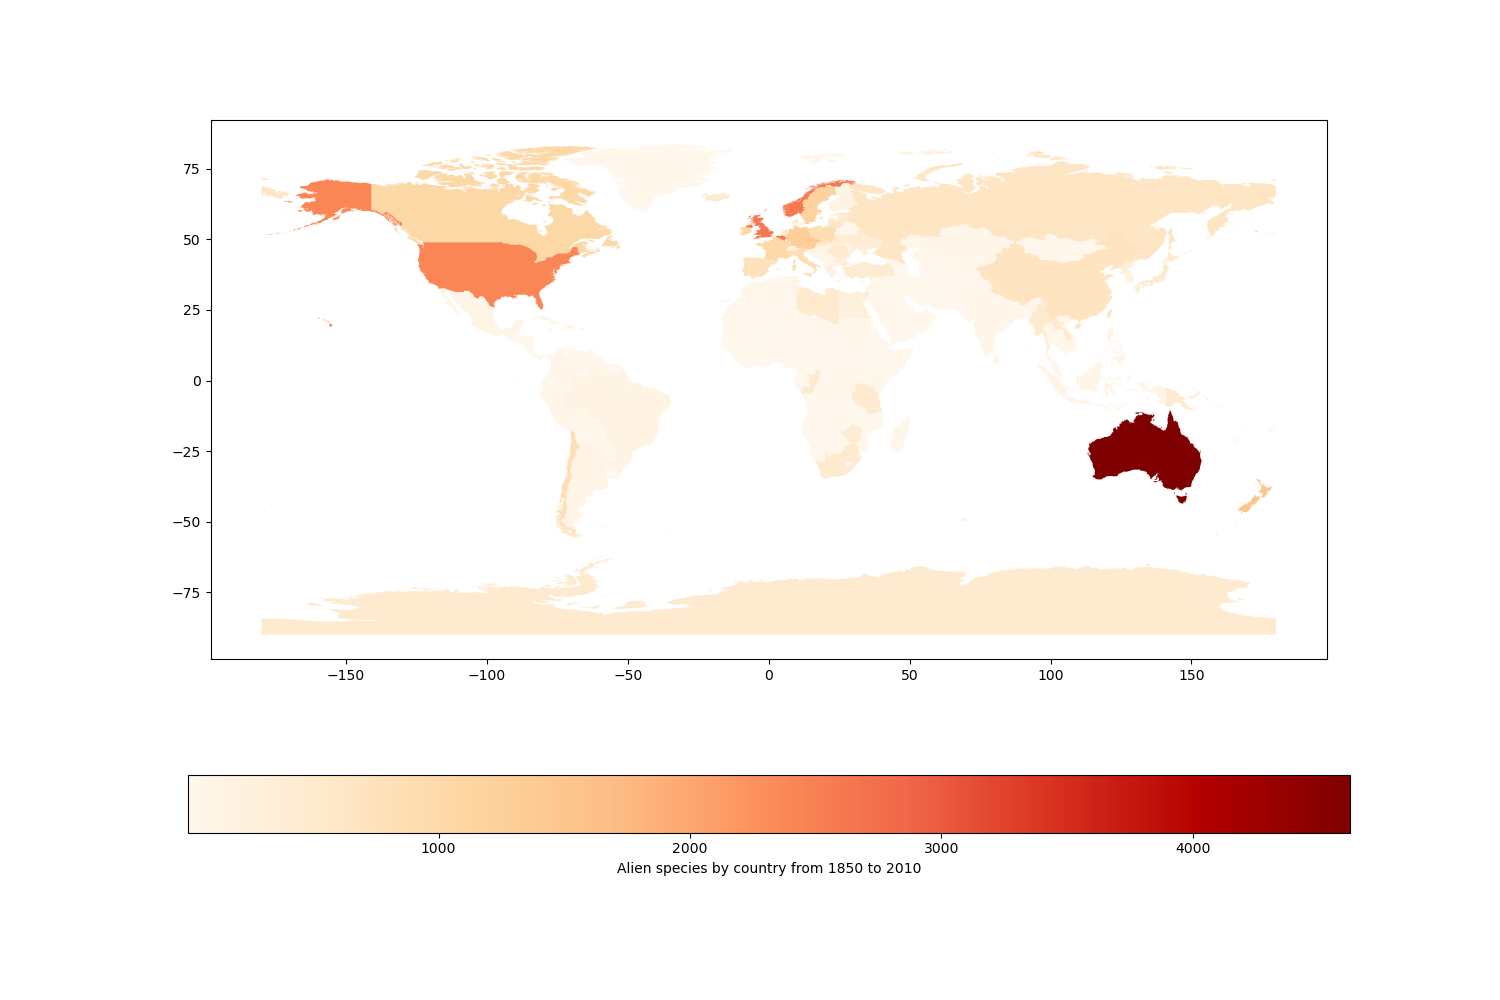
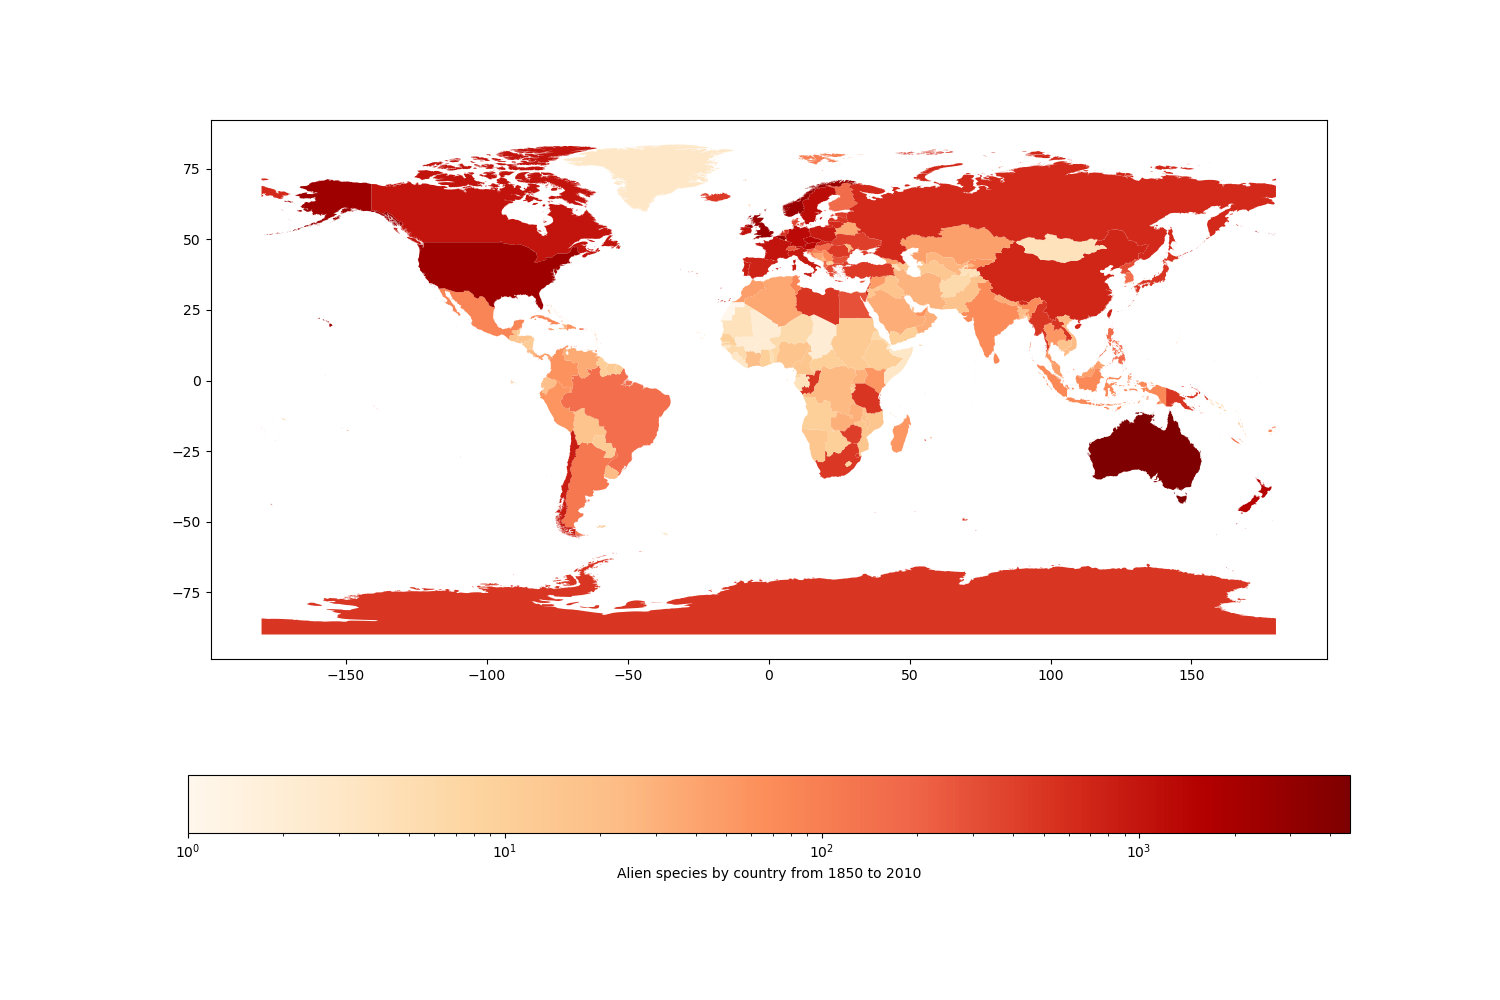
Chapter 4

diff --git a/latex/thesis.tex b/latex/thesis.tex
@@ -211,7 +211,6 @@ Intuitively, the amount of invasion per year increases over time mainly due to f
 %%\end{table}
 % -----------------------------------------
 
-%TODO use log of colors
 \begin{figure}[H]
     \centering
     \includegraphics[width=0.85\textwidth]{region_invasion.png}
@@ -564,17 +563,17 @@ The hazard function can be interpreted as the expected number of relational even
 %%Theta is what thet called beta in Igor's paper (change it?)
 
 \[
-\lambda(s, r, t) = \lambda_0(t) \cdot exp({X_{sr}^{(t)} \theta} )
+\lambda(s, r, t) = \lambda_0(t) \cdot exp({X_{sr}^{(t)} \beta} )
 \]
 
-In this equation, $\lambda_0$ represents a baseline hazard for all dyads in the risk set $\mathcal{R}$. Instead, the variable $X_{sr}^{(t)}$ is some dyadic covariate at time $t$. To estimate the parameters $\theta$ we maximize the partial likelihood of the Cox proportional hazard model 
+In this equation, $\lambda_0$ represents a baseline hazard for all dyads in the risk set $\mathcal{R}$. Instead, the variable $X_{sr}^{(t)}$ is some dyadic covariate at time $t$. To estimate the parameters $\beta$ we maximize the partial likelihood of the Cox proportional hazard model 
 
 
 \[
-L(\beta) =  \prod_{i=1}^n \frac{exp (X_{s_i r_i}^{(t_i)} \theta) }{ \sum_{(s,r) \in \mathcal{R}_{t_i}} exp({X_{sr}^{(t_i)} \theta} )}
+L(\beta) =  \prod_{i=1}^n \frac{exp (X_{s_i r_i}^{(t_i)} \beta) }{ \sum_{(s,r) \in \mathcal{R}_{t_i}} exp({X_{sr}^{(t_i)} \beta} )}
 \]
 
-Typically the research interest is to estimate the factors that increase, or decrease, the likelihood $L$, more specifically, the parameter $\theta$.
+Typically the research interest is to estimate the factors that increase, or decrease, the likelihood $L$, more specifically, the parameter $\beta$.
 
 
 
@@ -654,13 +653,21 @@ We chose the distance in the vector space $X$ to be the dot product. Empirically
 % Introduce EM for the problem
 To infer on the structure of the latent space $X$, and the parameters $\theta$  and $\Sigma$ we use the Expectation Maximization (EM) algorithm (\ref{sec:em}). Since the latent state $X$ is not observed, a direct optimization of the maximum likelihood is not possible. We aim to maximise the $\int_x L(\theta, \Sigma ; y, x) dx$. As explained in the background section \ref{sec:em}, the EM instead of directly maximise this integral, it iteratively computes and maximises an estimate $Q$ of the parameters $\theta, \Sigma$ conditionated on the previous estimate. 
 
-\[
-Q(\theta^{n}, \Sigma^{n}) = E_{x|y} \left( log(p(x, y | \theta^{n-1}, \Sigma^{n-1}) \right)
-\]
+%TODO a little unclear
+\begin{eqfloat}
+\begin{equation}
+Q(\beta^{n}, \Sigma^{n}) = E_{x|y} \left( log(p(x, y | \theta^{n-1}, \Sigma^{n-1}) \right)
+\end{equation}
+\caption{Expectation Maximization.}
+\label{eq:expectation_maximization}
+\end{eqfloat}
+
 
 With $\theta(x_k) = -dist(x_s, x_r))$
 
 % E-step hard to solve -> Kalman filter
+
+\subsection{Extended Kalman Filter}
 
 In section \ref{sec:kalman} we showed how to apply a Kalman filter to solve the E-step of an Expectaction Maximizaton problem of a Linear Gaussian model, but our process $y$ is not linear. We can rewrite the latent space formulation in Eq. \ref{eq:latentspace} slightly differently
 
@@ -725,31 +732,29 @@ We forecast an update of the estimation of $\hat{x} \approx x$
 \begin{eqfloat}[H]
 \begin{equation}
 \begin{array}{l}
-\hat{x}_t^- = f(\hat{x}_{t-1}) \\
-\hat{V}_t^- = J(x^f_{t-1}) V_{t-1} J(x^f_{t-1})^T + W_{t-1} Q_{t-1} W_{t-1}^T
+\hat{x}_k^- = \hat{x}_{k-1} \\
+\hat{V}_k^- =  V_{k-1} + \Sigma
 \end{array}
 \end{equation}
 \caption{Prediction step}
 \label{eq:ext_kalmann_prediction}
 \end{eqfloat}
 
-%TODO check Q
-Where $J(x)$ is the Jacobian of $f(x)$ and $Q_{t-1}$ the process noise covariance matrix.
-
+We know updated the a-priori estimates of the mean and variance in Eq. \ref{eq:ext_kalmann_prediction} with the observation of state $y$
 
 \begin{eqfloat}[H]
 \begin{equation}
 \begin{array}{l}
-K_t = V_t^- H^T_t (H_t V_t^- H^T_t + R_t)^{-1} \\
-\hat{x}_t = x_t^- + K (z_t - h(\hat{x}_t^-)) \\
-V_t = (I-K_t H_t)V_t^-
+K_k = V_k^- H^T_k (H_k V_t^- H^T_k + R_k)^{-1} \\
+\hat{x}_k = x_k^- + K_k (y_k - h(\hat{x}_k^-)) \\
+V_k = (I-K_k H_k)V_k^-
 \end{array}
 \end{equation}
 \caption{Update step}
 \label{eq:ext_kalmann_update}
 \end{eqfloat}
 
-By combining equations (\ref{eq:ext_kalmann_prediction}), (\ref{eq:ext_kalmann_update}) we get an algorithm for the Extended Kalman Filter process is shown in Algorithm \ref{algo:ext_kalmann}. Due to the convexity of the problem, only one step is required for the Kalman filter to converge.
+By combining equations (\ref{eq:ext_kalmann_prediction}), (\ref{eq:ext_kalmann_update}) we get an algorithm for the Extended Kalman. \\
 
 \begin{algorithm}[H]
 \textbf{Initialize: }
@@ -760,51 +765,73 @@ $\hat{V}_0 = V_0 = E[(x_0-\hat{x}_0)(x_0-\hat{x}_0)^T]$  \;
 \For{k=1,...,n}{
   Prediction step (Eq. \ref{eq:ext_kalmann_prediction})
   \begin{substeps}
-  $\hat{x}_t^- = f(\hat{x}_{t-1})$ \;
-  $\hat{V}_t^- = J(x^f_{t-1}) V_{t-1} J(x^f_{t-1})^T + W_{t-1} Q_{t-1} W_{t-1}^T$\;
+	$\hat{x}_k^- = \hat{x}_{k-1} $ \;
+	$\hat{V}_k^- =  V_{k-1} + \Sigma $\;
   \end{substeps}
   Update step (Eq. \ref{eq:ext_kalmann_update})
   \begin{substeps}
-  $K_t = V_t^- H^T_t (H_t V_t^- H^T_t + R_t)^{-1}$ \;
-  $\hat{x}_t = x_t^- + K (z_t - h(\hat{x}_t^-))$\;
-  $V_t = (I-K_t H_t)V_t^-$\;
+	$K_k = V_k^- H^T_k (H_k V_t^- H^T_k + R_k)^{-1}$ \;
+	$\hat{x}_k = x_k^- + K_k (y_k - h(\hat{x}_k^-))$ \;
+	$V_k = (I-K_k H_k)V_k^-$ \;
   \end{substeps}
 }
   \caption{Extended Kalmann Filter}
   \label{algo:ext_kalmann}
 \end{algorithm}
 
-%TODO talk a little about the smoother
+% --------- Smoother --------------------
+Afner $n$ iterations of the Extended Kalman Filter are performed, we move backwards from the last prediction to the starting prediction with the goal to update and correct the predictions given by the Extended Kalman Filter. A popular choice for an Extended Kalman filter smoother is the Rauch-Tung-Striebel smoother. 
 
-%TODO talk a little about how to estimate the parameters
-
-We can finally write our latent space REM model in a closed form
-
-%TODO write this
 \begin{algorithm}[H]
-\For{k=1...s}{
-  E-Step: Kalman Filter  \ref{eq:ext_kalmann_prediction} + \ref{eq:ext_kalmann_update} \;
-  M-Step: Smoothing \;
-  Estimate paramters
+\For{k=n...1}{
+  $B_k = V_{k-1} V_{k-1}^{-1}$ \;
+  $\hat{x}_{k-1} = x_{k-1}^- + B_k (\hat{x}_k - x_{k}^-)$ \;
+  $V_{k-1} = \hat{V}_{k-1}^- + B_K (V_k - \hat{V}_k^-)B^T_k $ \;
 }
-\caption{Extended Kalmann Filter}
-\label{algo:ext_kalmann}
+  \caption{Smoother}
+  \label{algo:smoother}
+\end{algorithm}
+
+\section{Closed form Algorithm}
+% --------- M-step --------------------
+We now propose a close form for an algorithm based on the Expectation Maximization framework (Eq. \ref{eq:expectation_maximization}) to make inference on our latent space REM. We approximate the E-step by means of an Extended Kalman Filter proposed in the previous section, then we maximise $Q$. For a number $s$ of steps, we report our model in a closed form
+
+
+\begin{algorithm}[H]
+
+\textbf{Initialize: }
+\begin{substeps}
+$\hat{x}_0 = \mu_0 = E[x_0]$ \;
+$\hat{V}_0 = V_0 = E[(x_0-\hat{x}_0)(x_0-\hat{x}_0)^T]$  \;
+\end{substeps}
+\While{not converged}{
+  \textbf{E-Step}: 
+	\begin{substeps}
+	Kalman Filter  (Alg. \ref{algo:ext_kalmann}) \; 
+	Smoother (Alg. \ref{algo:smoother}) \;
+	\end{substeps}  	
+  \textbf{M-Step:}
+	\begin{substeps}
+	$\beta = \textrm{argmax}_{\beta} Q$ \; 
+	\end{substeps}  	
+}
+\caption{Lantet space REM inference.}
+\label{algo:rem_latent}
 \end{algorithm}
 
 
+%\subsection{Model computational complexity discussion}
 
-%TODO review my notation in section KF. First two moments
-%also seee star at igor paper 3. Inference
+%TODO
 
-
-\chapter{Discussion}
+%\chapter{Discussion}
 
 %TODO our findings are in agreement with lady's paper
 
 %The number of alien species found in a particular region. Both plants and insects were significantly affected by the number of species that have already invaded a certain region. However, whereas plants were recorded more frequently in regions already invaded by other plants, insects were less frequently recorded in regions that had already been invaded by other in- sects. The effects were nonetheless very small in both cases, i.e., affecting the hazard by 0.3% per invasion in the opposite direction.
 
 
-\chapter{Conclusion}
+%\chapter{Conclusion}
 
 %TODO answer to research question
 
